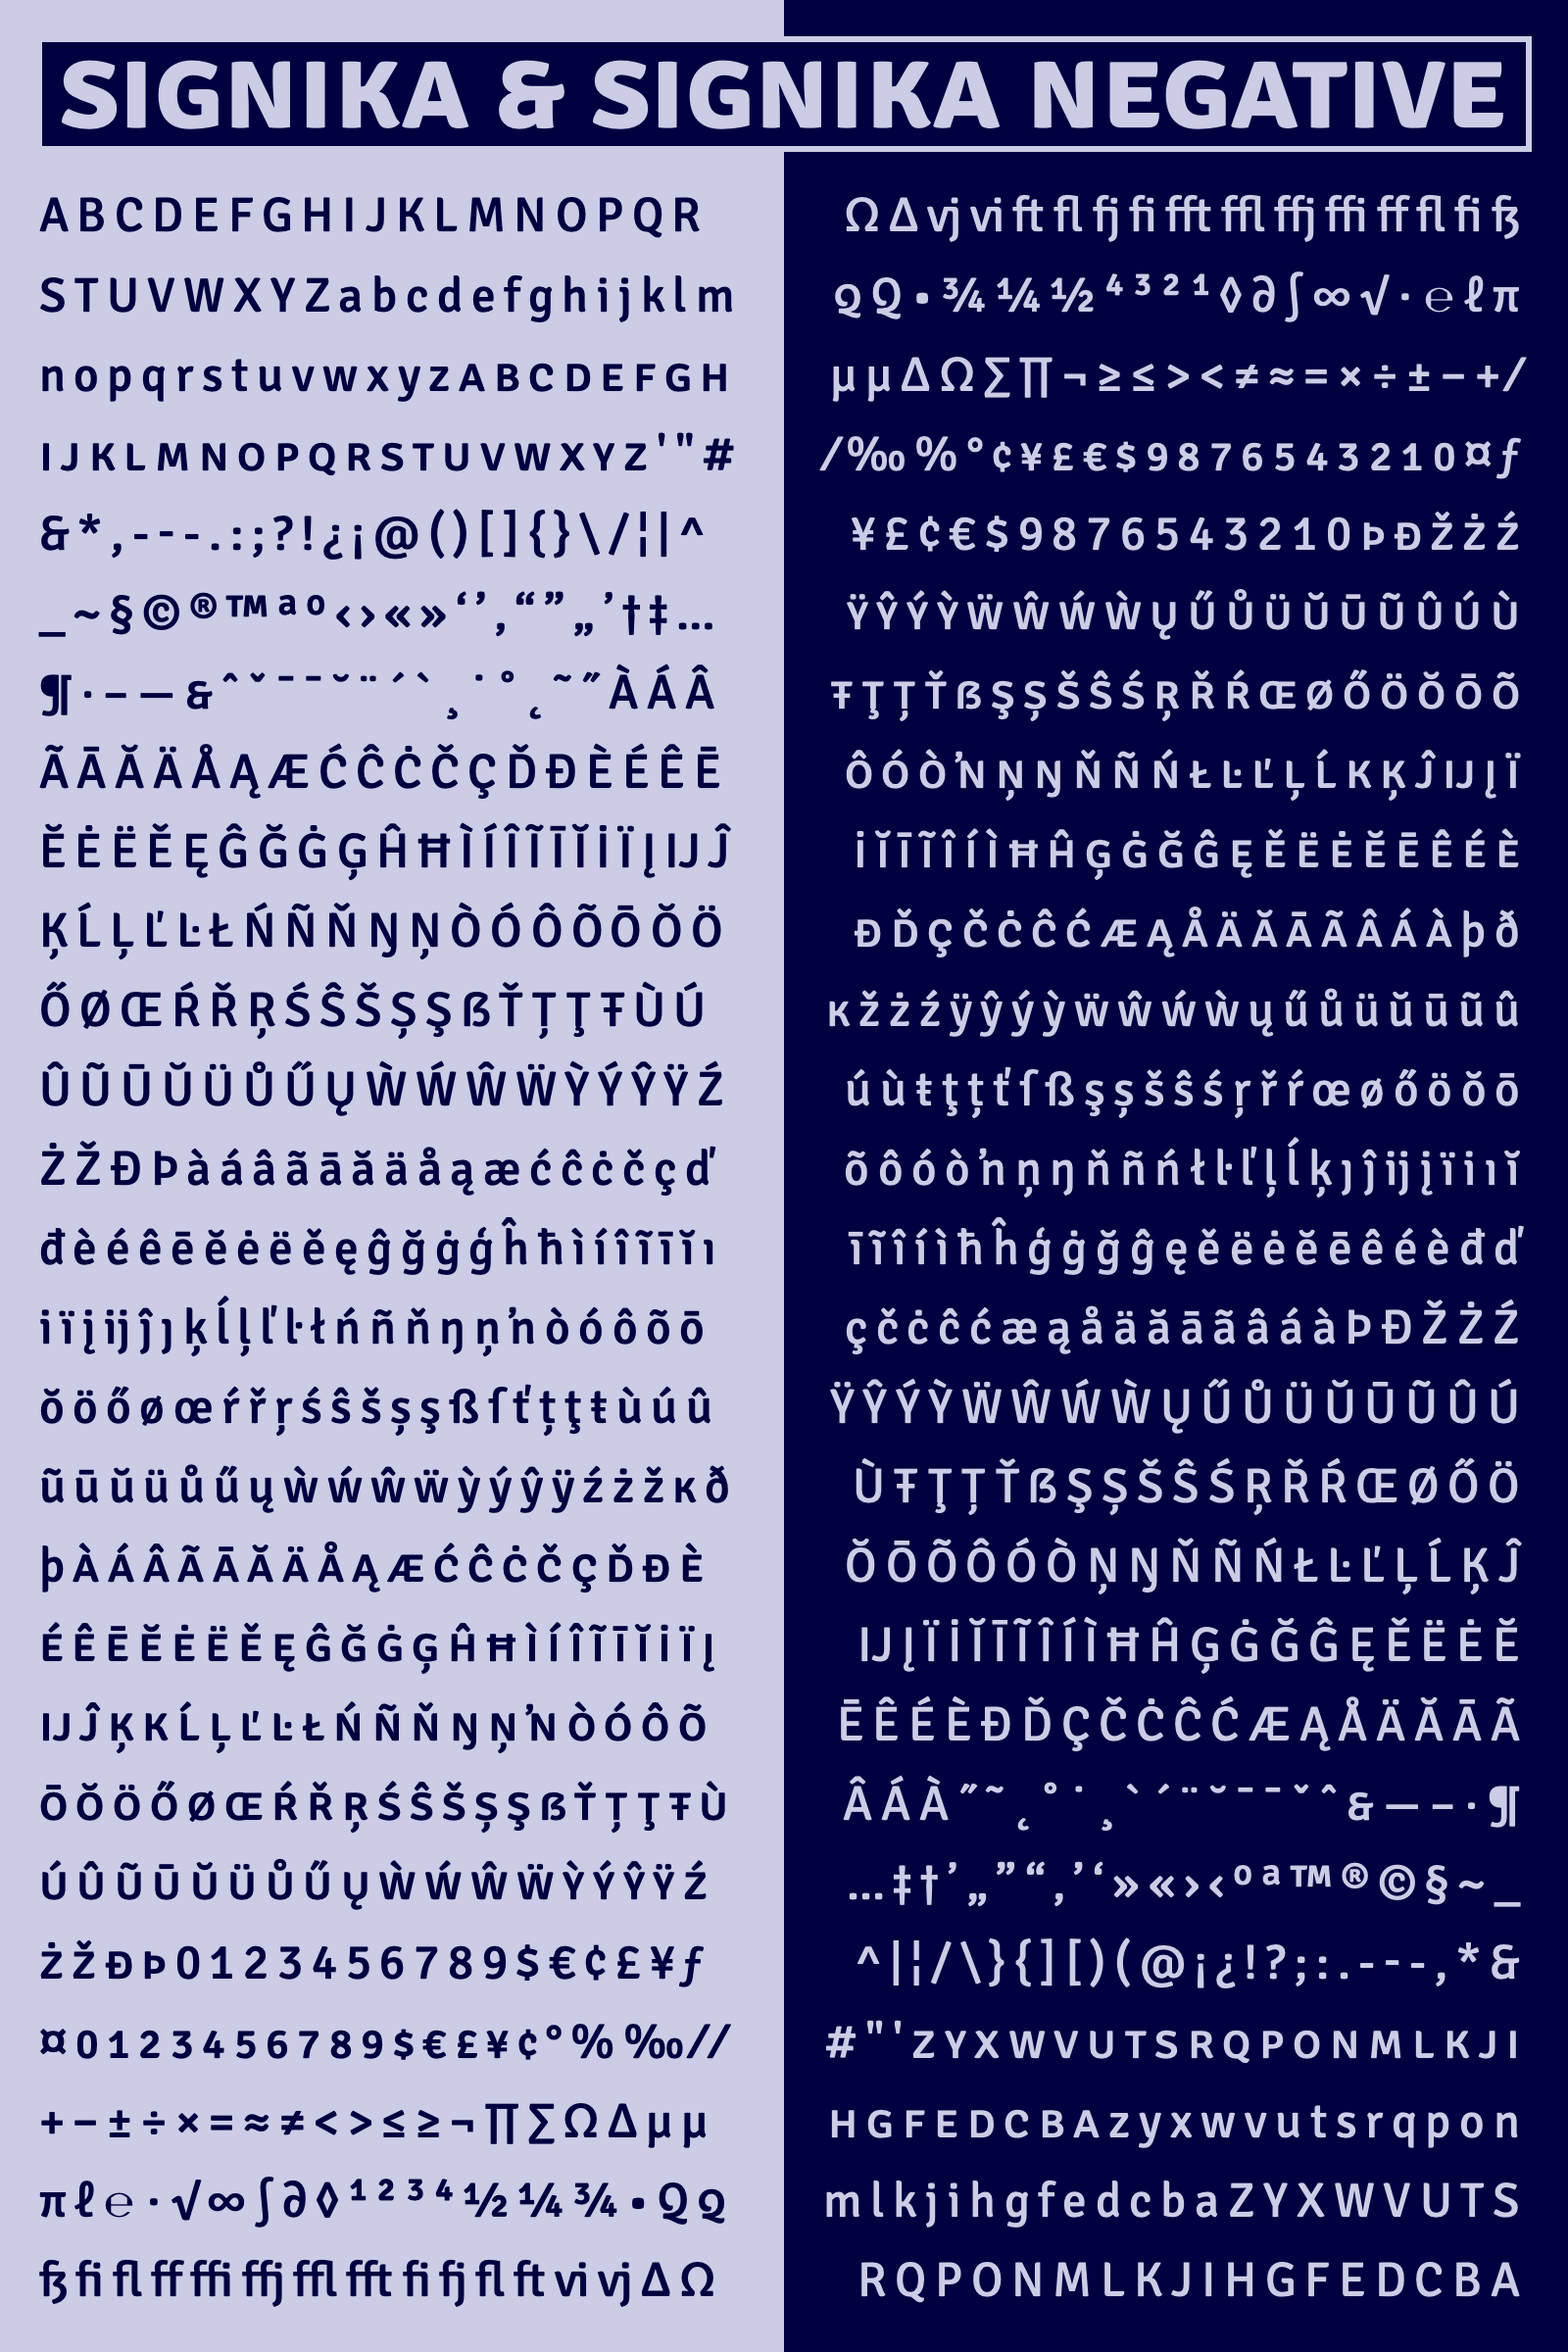
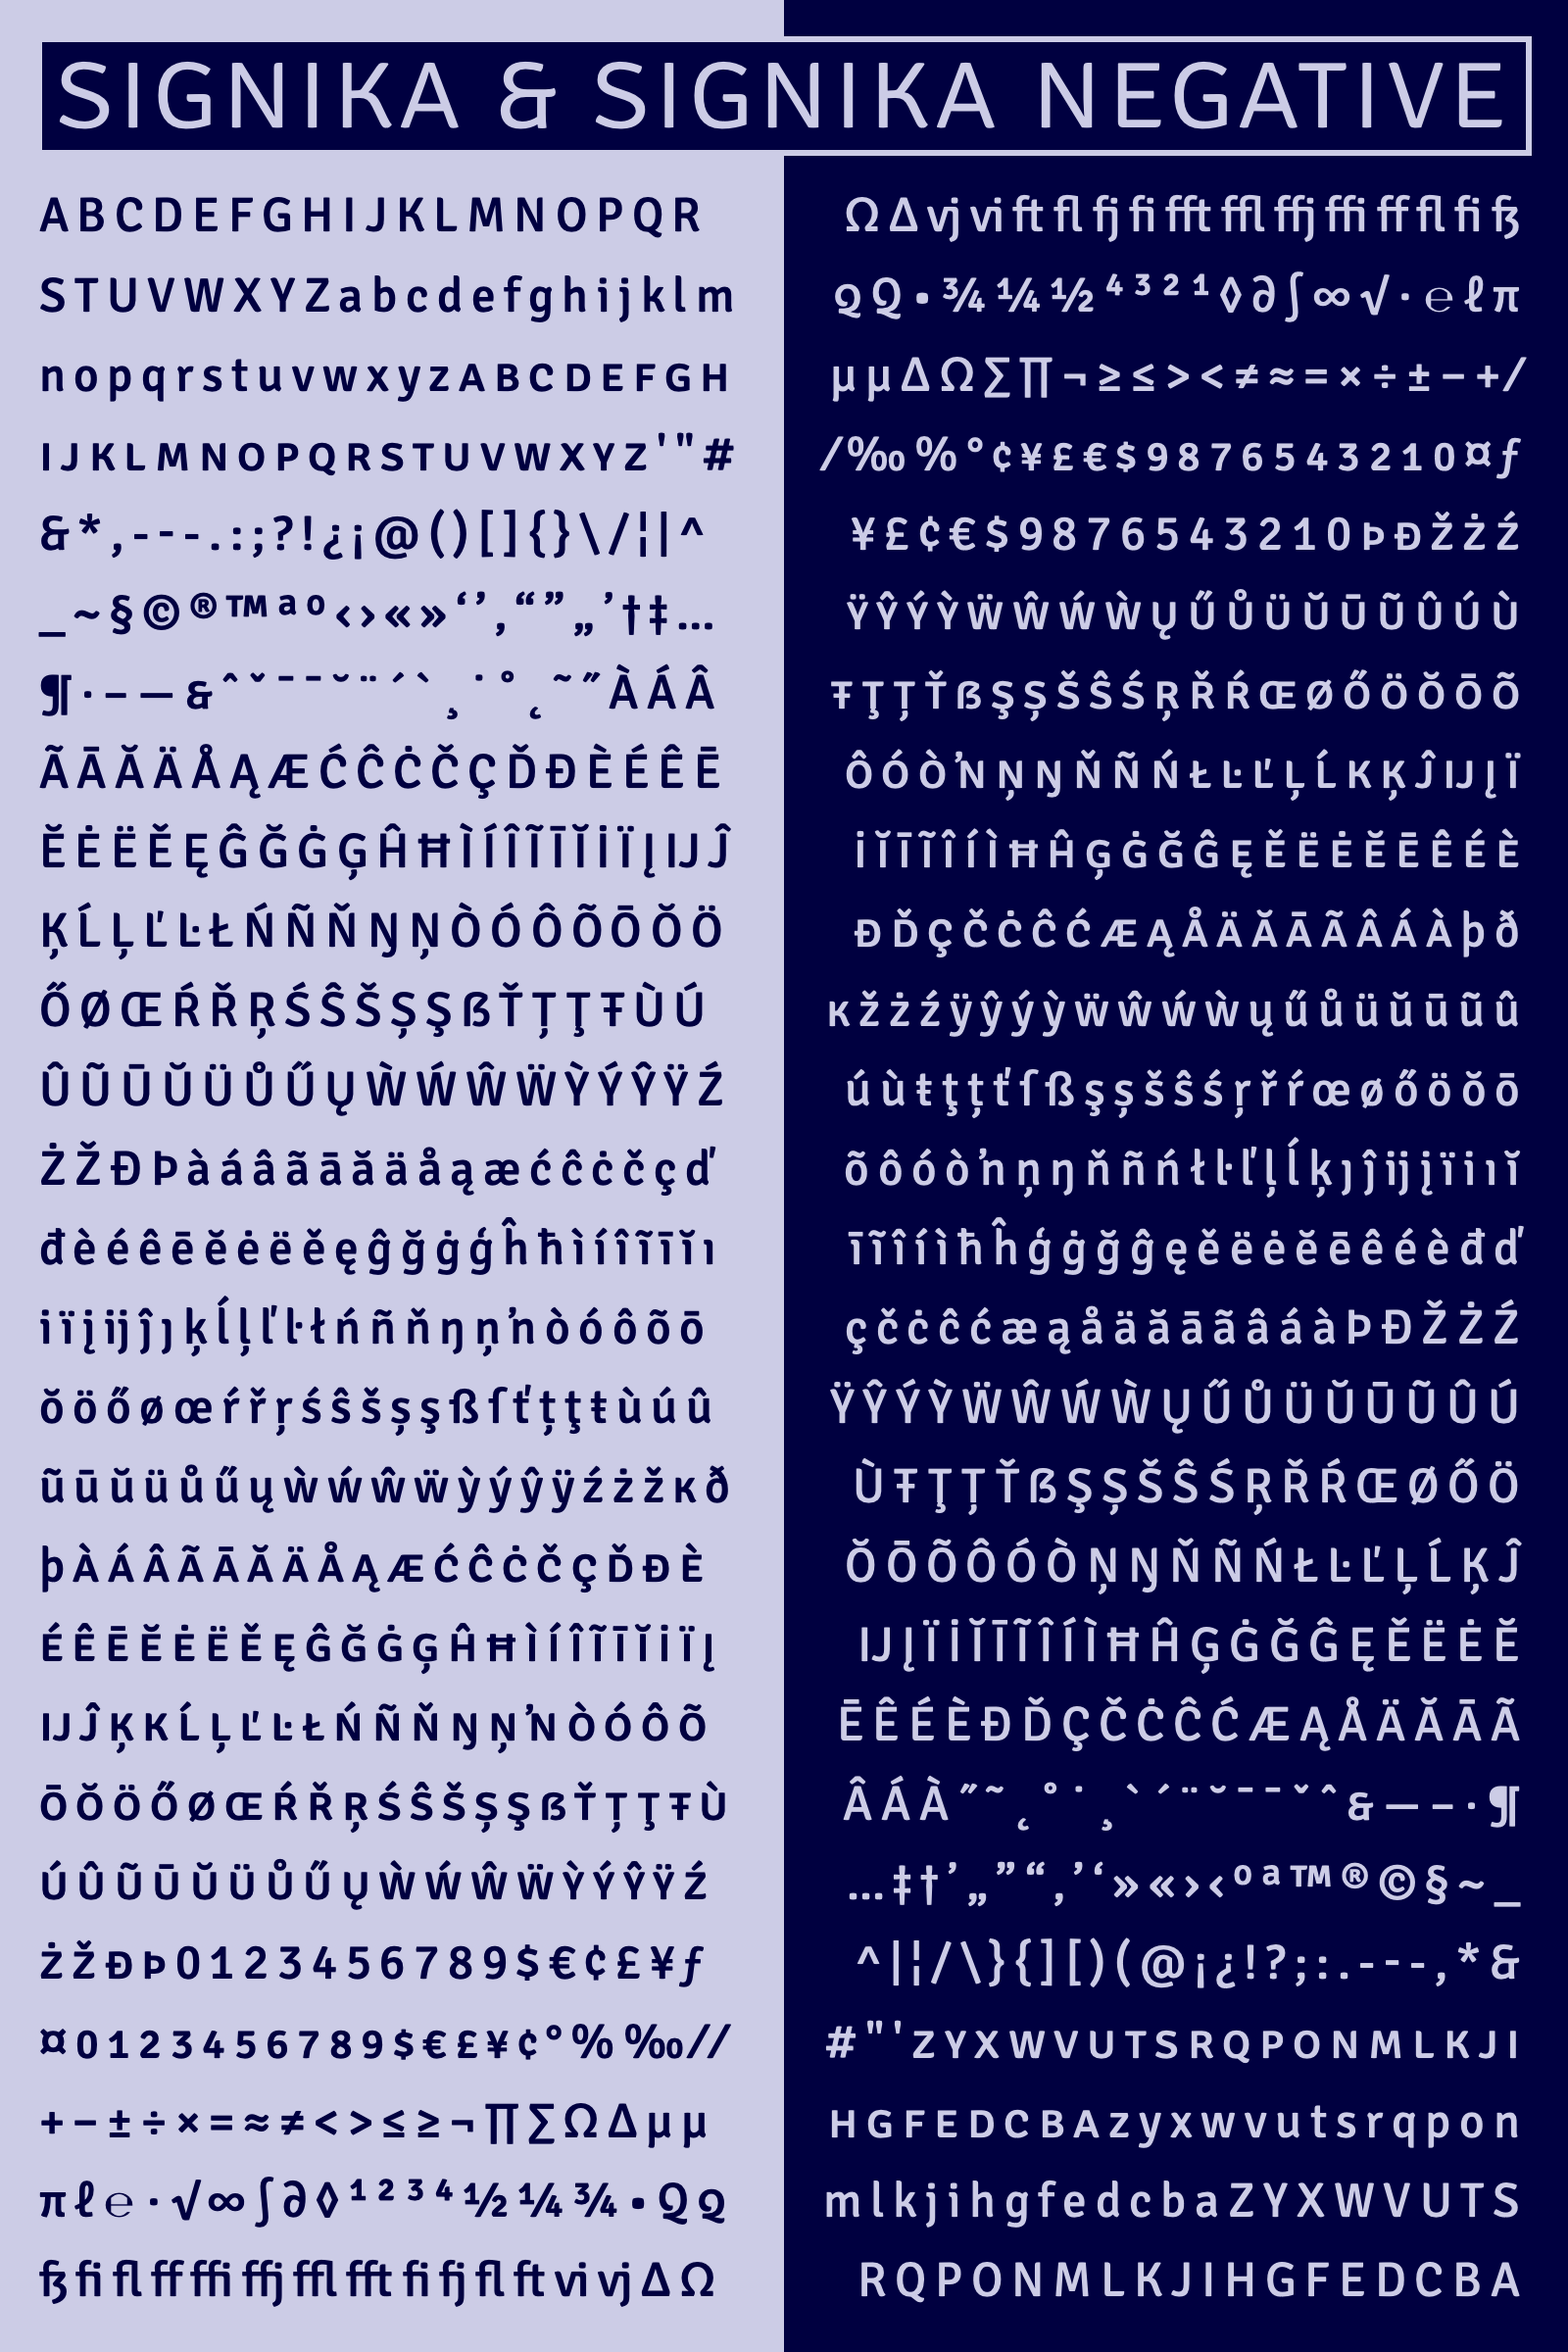
refine typography and color

Changed region(s): [[0.0312, 0.0312, 0.9688, 0.0625]]

diff --git a/docs/08-specimen/signika-specimen-drawbot-alt_title.py b/docs/08-specimen/signika-specimen-drawbot-alt_title.py
@@ -1,15 +1,22 @@
-# run with www.drawbot.com
-# run from root folder
+# -------------------------------------------------------------------
+# code app switching ------------------------------------------------
 
-## if you want to run this file from a code editor/command line, comment out the following line
+## if you want to run this file from a code editor & command line, comment out the following line
 runFromDrawbot = True
 
 try:
     runFromDrawbot # checks if variable exists
     fileRoot = "/Users/stephennixon/type-repos/google-font-repos/signika-for-google/"
+
+# if runFromDrawbot is commented out, this will set things up to run remotely
 except NameError:
+    # run with www.drawbot.com
+    # run from root folder
     from drawBot import *
     fileRoot = "."
+
+# -------------------------------------------------------------------
+# set up vars -------------------------------------------------------
 
 W, H = 800, 1200
 
@@ -34,7 +41,8 @@ lineHeight = fontSizing*1.64
 tracking = 4.30
 # color = (1,0,0)
 
-# normal charset
+# -------------------------------------------------------------------
+# normal charset ----------------------------------------------------
 
 charSet = FormattedString()
 charSet.font(f"{fileRoot}/fonts/signika/static/Signika-Regular.ttf")
@@ -59,7 +67,8 @@ stroke(1)
 
 textBox(charSet, (padding, -80, W/2-padding*2, H-padding/2))
 
-# negative charset
+# -------------------------------------------------------------------
+# negative charset --------------------------------------------------
 
 charSet2 = FormattedString()
 charSet2.font(f"{fileRoot}/fonts/signikanegative/static/SignikaNegative-Regular.ttf")
@@ -83,12 +92,14 @@ textBox(charSet2, (W/2+padding,-80, W/2-padding*2, H-padding/2))
 
 # saveImage("charset.pdf")
 
+# -------------------------------------------------------------------
+# Title -------------------------------------------------------------
 
 # fill(colorA[0],colorA[1],colorA[2])
 fill(colorB[0],colorB[1],colorB[2])
 stroke(colorA[0],colorA[1],colorA[2])
 strokeWidth(3)
-titleHeight = 56
+titleHeight = 58
 titleWidth = W-padding*2
 rect((W-titleWidth)/2, H-titleHeight-padding, titleWidth,titleHeight)
 
@@ -100,14 +111,17 @@ fontName.fill(0,0,1)
 fontName.fill(colorA[0],colorA[1],colorA[2])
 fontName.strokeWidth(0.5)
 fontName.fontSize(fontSizing)
-fontName.tracking(0)
+fontName.tracking(2.2)
 fontName.align("center")
-fontName.font(f"{fileRoot}/fonts/signikanegative/static/SignikaNegative-Bold.ttf")
+fontName.font(f"{fileRoot}/fonts/signikanegative/static/SignikaNegative-Light.ttf")
 fontName.lineHeight(fontSizing*1.55)
 fontName.openTypeFeatures(smcp=True,c2sc=True)
 fontName += "Signika & Signika Negative"
 
 textBox(fontName, (padding, 0, W-padding*2, H))
+
+# -------------------------------------------------------------------
+# Save Image --------------------------------------------------------
 
 path = f"{fileRoot}/docs/08-specimen/charset-tall-alt_title.png"
 saveImage(path, imageResolution=144)
